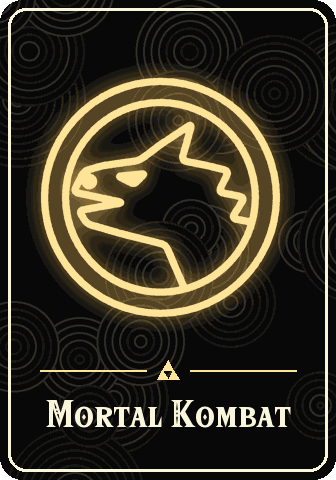
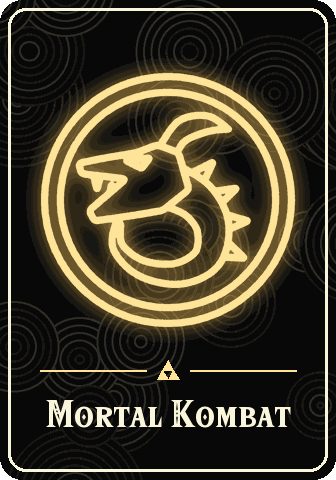
fix(art): draw mortal kombat as a dragon in its medallion

Changed region(s): [[0.119, 0.125, 0.9226, 0.7188]]

diff --git a/tools/gen_theme_art.py b/tools/gen_theme_art.py
@@ -1181,17 +1181,34 @@ def professor_layton(p):  # the professor's top hat
             p.path(arc(0, y, 30, 6, 0, 180))
 
 
-def mortal_kombat(p):  # the dragon medallion
-    ring = arc(0, 0, 36, 36, 0, 354)
-    p.o(0, 0, 44)
-    p.path(ring, True)
-    head = rounded([(14, 46), (2, 18), (-14, 14), (-28, 10), (-31, 5), (-14, 2), (-33, -2), (-29, -10), (-22, -12),
-                    (-8, -14), (0, -20), (12, -28), (8, -14), (18, -12), (26, -10), (22, -2), (32, 0), (27, 8),
-                    (38, 10), (33, 17), (50, 22), (46, 46)], 2)
-    with p.inside(ring):
-        p.path(head, True)
-    p.pg([(-16, -8), (-6, -9), (-10, -5)], 1)
-    p.o(-27, -6, 1.6)
+def mortal_kombat(p):  # the dragon medallion: a dragon's head and body curled inside a ring
+    p.o(0, 0, 47)
+    p.o(0, 0, 41)
+    spine = spline([(0, -6), (11, 0), (17, 10), (15, 22), (4, 28), (-10, 26), (-19, 18), (-19, 9)])
+    side_a, side_b = [], []
+    for i, (x, y) in enumerate(spine):
+        a, b = spine[max(i - 1, 0)], spine[min(i + 1, len(spine) - 1)]
+        tx, ty = b[0] - a[0], b[1] - a[1]
+        n = math.hypot(tx, ty)
+        w = 7.5 * (1 - i / len(spine)) + 0.8
+        side_a.append((x - ty / n * w, y + tx / n * w))
+        side_b.append((x + ty / n * w, y - tx / n * w))
+    body = side_a + [spine[-1]] + side_b[::-1]
+    for i in range(6, 42, 9):  # the crest along the outside of the neck and back
+        x, y = side_b[i]
+        bx, by = side_b[i + 6]
+        nx, ny = x - spine[i][0], y - spine[i][1]
+        k = 8 / math.hypot(nx, ny)
+        p.pg([(x - nx * 0.3, y - ny * 0.3), (bx + nx * k, by + ny * k), (bx - nx * 0.3, by - ny * 0.3)], 0.8)
+    p.path(body, True, opaque=True)
+    p.pg([(-29, -12), (-27, -4), (-25, -12)], 0.6)
+    p.pg([(-23, 2), (-21.5, -6), (-20, 2)], 0.6)
+    p.path(spline([(-4, -19), (4, -30), (15, -32), (23, -27)]) + spline([(23, -27), (15, -26), (6, -22), (2, -14)])[1:],
+           True)
+    head = [(4, -18), (-4, -21), (-12, -18), (-24, -16), (-34, -14), (-33, -10), (-16, -8), (-30, 4), (-28, 8),
+            (-14, 6), (-2, 4), (8, -4)]
+    p.pg(head, 1.5, opaque=True)
+    p.pg([(-16, -15), (-7, -16), (-10, -12)], 0.6)
 
 
 def tekken(p):  # the logo's italic, knife-cut t
@@ -1299,7 +1316,7 @@ ART = {
     "ys": (ys, (38, 112, 124), -6, 0.9, (-14, 0)),
     "horses": (horses, (150, 96, 60), -5, 0.95, (-34, 0)),
     "professor-layton": (professor_layton, (150, 78, 44), -6, 1.0, (-10, 0)),
-    "mortal-kombat": (mortal_kombat, (140, 32, 28), -4, 1.0, (-10, 0)),
+    "mortal-kombat": (mortal_kombat, (140, 32, 28), 0, 0.95, (-14, 0)),
     "tekken": (tekken, (96, 52, 150), 0, 0.9, (-28, 0)),
     "samurai-shodown": (samurai_shodown, (120, 40, 50), -30, 1.12, (-14, 14)),
     "fatal-fury": (fatal_fury, (60, 100, 150), -4, 1.0, (-16, 0)),
